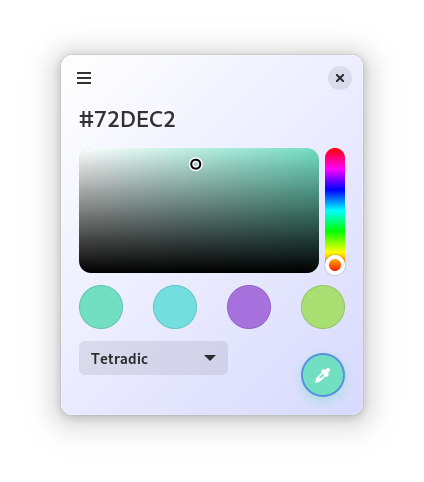
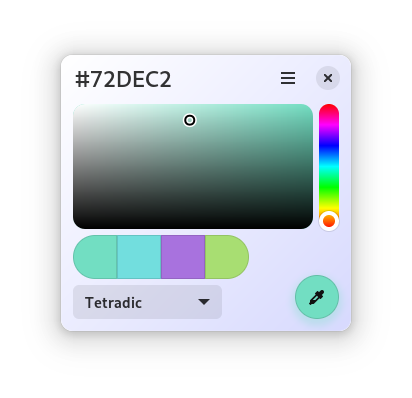
* - Make window small like a toolbox app

Changed region(s): [[0.1456, 0.1206, 0.8738, 0.8744], [0.6699, 0.1809, 0.7282, 0.2111]]

diff --git a/data/style.css b/data/style.css
@@ -39,9 +39,18 @@
   border-radius: 999px;
 }
 .clr-color {
-  border-radius: 999px;
+  border-radius: 999px 0 0 999px;
   box-shadow: inset 0 0 0 1px @borders;
 }
+.clr-color-mid {
+  border-radius: 0px;
+  box-shadow: inset 0 0 0 1px @borders;
+}
+.clr-color-end {
+  border-radius: 0 999px 999px 0;
+  box-shadow: inset 0 0 0 1px @borders;
+}
+
 .clr-palette button image {
 	color: #fff;
 }
@@ -58,6 +67,6 @@
   font-size: 1.5rem;
   font-weight: 600;
   margin: 0;
-  padding: 0;
+  padding: 2px;
   background: none;
 }
